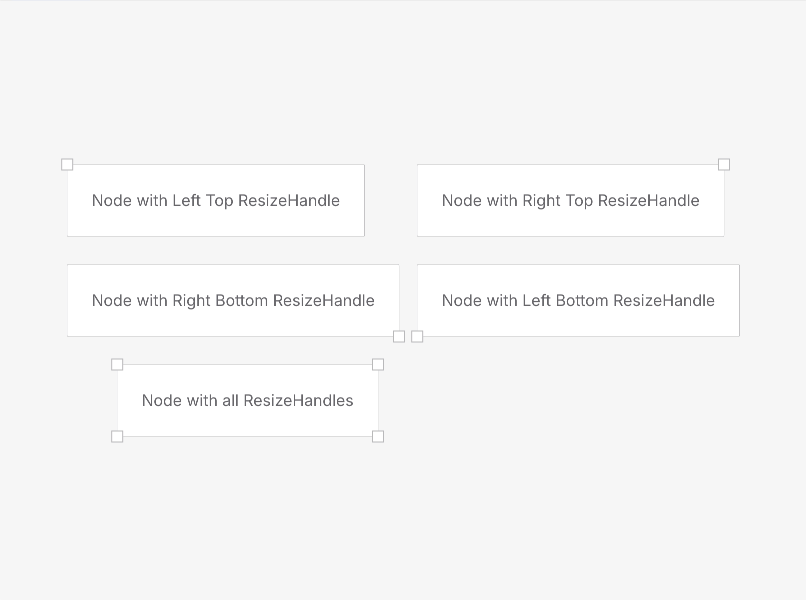
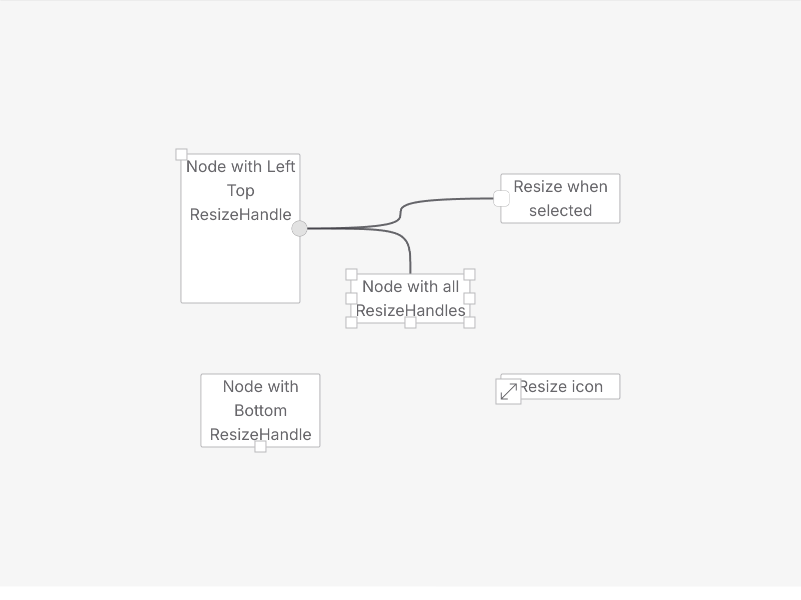
feat: enhance resize handle functionality with minimum size support and improve styling

diff --git a/projects/f-examples/nodes/resize-handle/resize-handle.component.html b/projects/f-examples/nodes/resize-handle/resize-handle.component.html
@@ -1,10 +1,15 @@
 <f-flow fDraggable (fLoaded)="onLoaded()">
   <f-canvas>
+    <f-connection fOutputId="output1" fInputId="input1" fType="bezier" fBehavior="fixed"></f-connection>
+    <f-connection fOutputId="output1" fInputId="input2" fType="bezier" fBehavior="fixed"></f-connection>
+
     <div fNode fDragHandle
-         [fNodePosition]="{ x: 0, y: 0 }"
+         [fNodePosition]="{ x: -20, y: -20 }"
          [fNodeSize]="{ width: 120, height: 150 }"
          [fIncludePadding]="false"
          (fNodeSizeChange)="onNodeSizeChanged($event)">
+      <div fNodeOutput [isSelfConnectable]="false" fOutputConnectableSide="right" class="right"
+           fOutputId="output1"></div>
       <div fResizeHandle [fResizeHandleType]="eResizeHandleType.LEFT_TOP"></div>
       <div class="node-content">
         Node with Left Top ResizeHandle
@@ -12,34 +17,37 @@
     </div>
 
     <div fNode fDragHandle
-         [fNodePosition]="{ x: 300, y: 0 }" (fNodeSizeChange)="onNodeSizeChanged($event)">
+         [fNodePosition]="{ x: 300, y: 0 }" (fNodeSizeChange)="onNodeSizeChanged($event)" class="resize-when-selected">
+      <div fNodeInput fInputConnectableSide="left" class="left" fInputId="input1"></div>
       <div fResizeHandle [fResizeHandleType]="eResizeHandleType.RIGHT_TOP"></div>
       <div class="node-content">
-        Node with Right Top ResizeHandle
+        Resize when selected
       </div>
     </div>
 
     <div fNode fDragHandle
          [fNodePosition]="{ x: 0, y: 200 }" (fNodeSizeChange)="onNodeSizeChanged($event)">
-      <div fResizeHandle [fResizeHandleType]="eResizeHandleType.RIGHT_BOTTOM"></div>
+      <div fResizeHandle [fResizeHandleType]="eResizeHandleType.BOTTOM"></div>
       <div class="node-content">
-        Node with Right Bottom ResizeHandle
+        Node with Bottom ResizeHandle
       </div>
     </div>
 
     <div fNode fDragHandle
          [fNodePosition]="{ x: 300, y: 200 }" (fNodeSizeChange)="onNodeSizeChanged($event)">
-      <div fResizeHandle [fResizeHandleType]="eResizeHandleType.LEFT_BOTTOM"></div>
+      <mat-icon fResizeHandle [fResizeHandleType]="eResizeHandleType.LEFT_BOTTOM" class="resize-icon">
+        open_in_full
+      </mat-icon>
       <div class="node-content">
-        Node with Left Bottom ResizeHandle
+        Resize icon
       </div>
     </div>
 
     <div fNode fDragHandle
-         [fNodePosition]="{ x: 150, y: 100 }" (fNodeSizeChange)="onNodeSizeChanged($event)">
+         [fNodePosition]="{ x: 150, y: 100 }" fNodeInput fInputConnectableSide="top" fInputId="input2"
+         (fNodeSizeChange)="onNodeSizeChanged($event)">
       <div fResizeHandle [fResizeHandleType]="eResizeHandleType.LEFT"></div>
       <div fResizeHandle [fResizeHandleType]="eResizeHandleType.LEFT_TOP"></div>
-      <div fResizeHandle [fResizeHandleType]="eResizeHandleType.TOP"></div>
       <div fResizeHandle [fResizeHandleType]="eResizeHandleType.RIGHT_TOP"></div>
       <div fResizeHandle [fResizeHandleType]="eResizeHandleType.RIGHT"></div>
       <div fResizeHandle [fResizeHandleType]="eResizeHandleType.RIGHT_BOTTOM"></div>

diff --git a/projects/f-flow/src/f-draggable/f-node-resize/f-node-resize.drag-handler.ts b/projects/f-flow/src/f-draggable/f-node-resize/f-node-resize.drag-handler.ts
@@ -12,10 +12,10 @@ import { fInject } from '../f-injector';
 
 export class FNodeResizeDragHandler implements IFDragHandler {
 
-  public fEventType = 'node-resize';
-  public fData: any;
+  public readonly fEventType = 'node-resize';
+  public readonly fData: any;
 
-  private _fMediator = fInject(FMediator);
+  private readonly _fMediator = fInject(FMediator);
 
   private _originalRect!: IRect;
   private _resizeRestrictions!: INodeResizeRestrictions;
@@ -49,18 +49,19 @@ export class FNodeResizeDragHandler implements IFDragHandler {
   }
 
   private _calculateChangedRect(difference: IPoint): IRect {
-    return this._calculatePosition(difference, this._calculateSize(difference, this._resizeRestrictions.minimumSize));
+    const changedSize = this._calculateSize(difference, this._resizeRestrictions.minimumSize);
+    return this._calculatePosition(difference, changedSize, this._resizeRestrictions.minimumSize);
   }
 
   private _calculateSize(difference: IPoint, minimumSize: ISize): IRect {
     return this._fMediator.execute<IRect>(
-      new CalculateChangedSizeRequest(this._originalRect, difference, this._fResizeHandleType)
+      new CalculateChangedSizeRequest(this._originalRect, difference, minimumSize, this._fResizeHandleType)
     );
   }
 
-  private _calculatePosition(difference: IPoint, changedSize: IRect): IRect {
+  private _calculatePosition(difference: IPoint, changedSize: IRect, minimumSize: ISize): IRect {
     return this._fMediator.execute<IRect>(
-      new CalculateChangedPositionRequest(this._originalRect, changedSize, difference, this._fResizeHandleType)
+      new CalculateChangedPositionRequest(this._originalRect, changedSize, difference, minimumSize, this._fResizeHandleType)
     );
   }
 

diff --git a/projects/f-flow/src/f-draggable/f-node-resize/calculate-changed-position/calculate-changed-position.execution.ts b/projects/f-flow/src/f-draggable/f-node-resize/calculate-changed-position/calculate-changed-position.execution.ts
@@ -1,6 +1,6 @@
 import { Injectable } from '@angular/core';
 import { CalculateChangedPositionRequest } from './calculate-changed-position.request';
-import { IPoint, IRect, RectExtensions } from '@foblex/2d';
+import { IPoint, IRect, ISize, RectExtensions } from '@foblex/2d';
 import { FExecutionRegister, IExecution } from '@foblex/mediator';
 import { RESIZE_DIRECTIONS } from '../resize-direction';
 
@@ -10,15 +10,19 @@ export class CalculateChangedPositionExecution
   implements IExecution<CalculateChangedPositionRequest, IRect> {
 
   public handle(request: CalculateChangedPositionRequest): IRect {
-    return this.change(request.originalRect, request.difference, RESIZE_DIRECTIONS[request.fResizeHandleType], request.changedRect);
+    return this.change(
+      request.originalRect, request.difference,
+      RESIZE_DIRECTIONS[ request.fResizeHandleType ], request.changedRect,
+      request.minimumSize
+    );
   }
 
-  private change(originalRect: IRect, difference: IPoint, direction: IPoint, changedRect: IRect): IRect {
-      return RectExtensions.initialize(
-        originalRect.x + (direction.x === -1 ? difference.x : 0) + changedRect.x,
-        originalRect.y + (direction.y === -1 ? difference.y : 0) + changedRect.y,
-        changedRect.width,
-        changedRect.height
-      );
-    }
+  private change(originalRect: IRect, difference: IPoint, direction: IPoint, changedRect: IRect, minimumSize: ISize): IRect {
+    return RectExtensions.initialize(
+      originalRect.x + (direction.x === -1 ? difference.x : 0) + changedRect.x,
+      originalRect.y + (direction.y === -1 ? difference.y : 0) + changedRect.y,
+      changedRect.width,
+      changedRect.height
+    );
+  }
 }

diff --git a/projects/f-flow/src/f-draggable/f-node-resize/calculate-changed-size/calculate-changed-size.execution.ts b/projects/f-flow/src/f-draggable/f-node-resize/calculate-changed-size/calculate-changed-size.execution.ts
@@ -1,6 +1,6 @@
 import { Injectable } from '@angular/core';
 import { CalculateChangedSizeRequest } from './calculate-changed-size.request';
-import { IPoint, IRect, RectExtensions } from '@foblex/2d';
+import { IPoint, IRect, ISize, RectExtensions } from '@foblex/2d';
 import { FExecutionRegister, IExecution } from '@foblex/mediator';
 import { RESIZE_DIRECTIONS } from '../resize-direction';
 
@@ -13,11 +13,14 @@ export class CalculateChangedSizeExecution
     return this.change(
       request.originalRect,
       request.difference,
+      request.minimumSize,
       RESIZE_DIRECTIONS[ request.fResizeHandleType ],
     );
   }
 
-  private change(rect: IRect, difference: IPoint, direction: IPoint): IRect {
+  private change(
+    rect: IRect, difference: IPoint, minimumSize: ISize, direction: IPoint
+  ): IRect {
     const result = RectExtensions.initialize(
       0, 0,
       rect.width + direction.x * difference.x,

diff --git a/projects/f-examples/nodes/resize-handle/resize-handle.component.scss b/projects/f-examples/nodes/resize-handle/resize-handle.component.scss
@@ -1,16 +1,32 @@
 @use "../../flow-common";
 
-.f-node {
-  position: relative;
-  @include flow-common.node;
-  padding: 0;
+::ng-deep f-flow {
+  @include flow-common.connection;
 }
 
-.node-content {
-  width: 100%;
-  height: 100%;
-  overflow: hidden;
+.f-node {
+  @include flow-common.node;
+  position: relative;
+  padding: 0;
+  border: 1px solid var(--node-border-color);
+
+  &.resize-when-selected {
+    .f-resize-handle {
+      display: none;
+    }
+
+    &.f-selected {
+      .f-resize-handle {
+        display: block;
+      }
+    }
+  }
+
+  &.f-selected {
+    border: 1px solid var(--node-selected-border-color);
+  }
 }
+@include flow-common.connector;
 
 .f-resize-handle {
   position: absolute;
@@ -65,5 +81,10 @@
     bottom: -6px;
     left: -6px;
     cursor: nesw-resize;
+  }
+
+  &.resize-icon {
+    width: 26px;
+    height: 26px;
   }
 }

diff --git a/public/markdown/examples/environment.ts b/public/markdown/examples/environment.ts
@@ -284,7 +284,7 @@ function nodesGroup(): INavigationGroup {
         image: './previews/examples/resize-handle.light.png',
         image_dark: './previews/examples/resize-handle.dark.png',
         description: 'Add resize handles to make nodes adjustable in Foblex Flow diagrams for Angular',
-        image_width: 781,
+        image_width: 801,
         image_height: 600,
         image_type: 'image/png',
         badge: {
@@ -299,7 +299,7 @@ function nodesGroup(): INavigationGroup {
         image: './previews/examples/rotate-handle.light.png',
         image_dark: './previews/examples/rotate-handle.dark.png',
         description: 'Add rotate handles to make nodes adjustable in Foblex Flow diagrams for Angular',
-        image_width: 781,
+        image_width: 795,
         image_height: 600,
         image_type: 'image/png',
         badge: {

diff --git a/projects/f-flow/src/f-draggable/f-node-resize/calculate-changed-position/calculate-changed-position.request.ts b/projects/f-flow/src/f-draggable/f-node-resize/calculate-changed-position/calculate-changed-position.request.ts
@@ -1,4 +1,4 @@
-import { IPoint, IRect } from '@foblex/2d';
+import { IPoint, IRect, ISize } from '@foblex/2d';
 import { EFResizeHandleType } from '../../../f-node';
 
 export class CalculateChangedPositionRequest {
@@ -7,6 +7,7 @@ export class CalculateChangedPositionRequest {
     public originalRect: IRect,
     public changedRect: IRect,
     public difference: IPoint,
+    public minimumSize: ISize,
     public fResizeHandleType: EFResizeHandleType,
   ) {
   }

diff --git a/projects/f-flow/src/f-draggable/f-node-resize/calculate-changed-size/calculate-changed-size.request.ts b/projects/f-flow/src/f-draggable/f-node-resize/calculate-changed-size/calculate-changed-size.request.ts
@@ -1,4 +1,4 @@
-import { IPoint, IRect } from '@foblex/2d';
+import { IPoint, IRect, ISize } from '@foblex/2d';
 import { EFResizeHandleType } from '../../../f-node';
 
 export class CalculateChangedSizeRequest {
@@ -6,6 +6,7 @@ export class CalculateChangedSizeRequest {
   constructor(
     public originalRect: IRect,
     public difference: IPoint,
+    public minimumSize: ISize,
     public fResizeHandleType: EFResizeHandleType,
   ) {
   }

diff --git a/projects/f-flow/src/domain/f-node/update-node-when-state-or-size-changed/update-node-when-state-or-size-changed.execution.ts b/projects/f-flow/src/domain/f-node/update-node-when-state-or-size-changed/update-node-when-state-or-size-changed.execution.ts
@@ -12,7 +12,7 @@ import { RectExtensions } from '@foblex/2d';
 export class UpdateNodeWhenStateOrSizeChangedExecution
   implements IExecution<UpdateNodeWhenStateOrSizeChangedRequest, void> {
 
-  private _fMediator = inject(FMediator);
+  private readonly _fMediator = inject(FMediator);
 
   public handle(request: UpdateNodeWhenStateOrSizeChangedRequest): void {
     const { hostElement, connectors, stateChanges } = request.fComponent;

diff --git a/projects/f-flow/src/f-node/f-group.directive.ts b/projects/f-flow/src/f-node/f-group.directive.ts
@@ -98,8 +98,8 @@ export class FGroupDirective extends FNodeBase
   @Input({ transform: booleanAttribute })
   public override fConnectOnNode: boolean = true;
 
-  private _destroyRef = inject(DestroyRef);
-  private _fMediator = inject(FMediator);
+  private readonly _destroyRef = inject(DestroyRef);
+  private readonly _fMediator = inject(FMediator);
 
   constructor(
     elementReference: ElementRef<HTMLElement>,

diff --git a/projects/f-examples/nodes/resize-handle/resize-handle.component.ts b/projects/f-examples/nodes/resize-handle/resize-handle.component.ts
@@ -5,6 +5,7 @@ import {
   FFlowModule
 } from '@foblex/flow';
 import { IRect } from '@foblex/2d';
+import { MatIcon } from '@angular/material/icon';
 
 @Component({
   selector: 'resize-handle',
@@ -14,6 +15,7 @@ import { IRect } from '@foblex/2d';
   standalone: true,
   imports: [
     FFlowModule,
+    MatIcon,
   ]
 })
 export class ResizeHandleComponent {

diff --git a/projects/f-examples/_flow-common.scss b/projects/f-examples/_flow-common.scss
@@ -155,6 +155,12 @@
   &:active {
     box-shadow: var(--node-shadow);
   }
+
+  .node-content {
+    width: 100%;
+    height: 100%;
+    overflow: hidden;
+  }
 }
 
 @mixin connectors {
